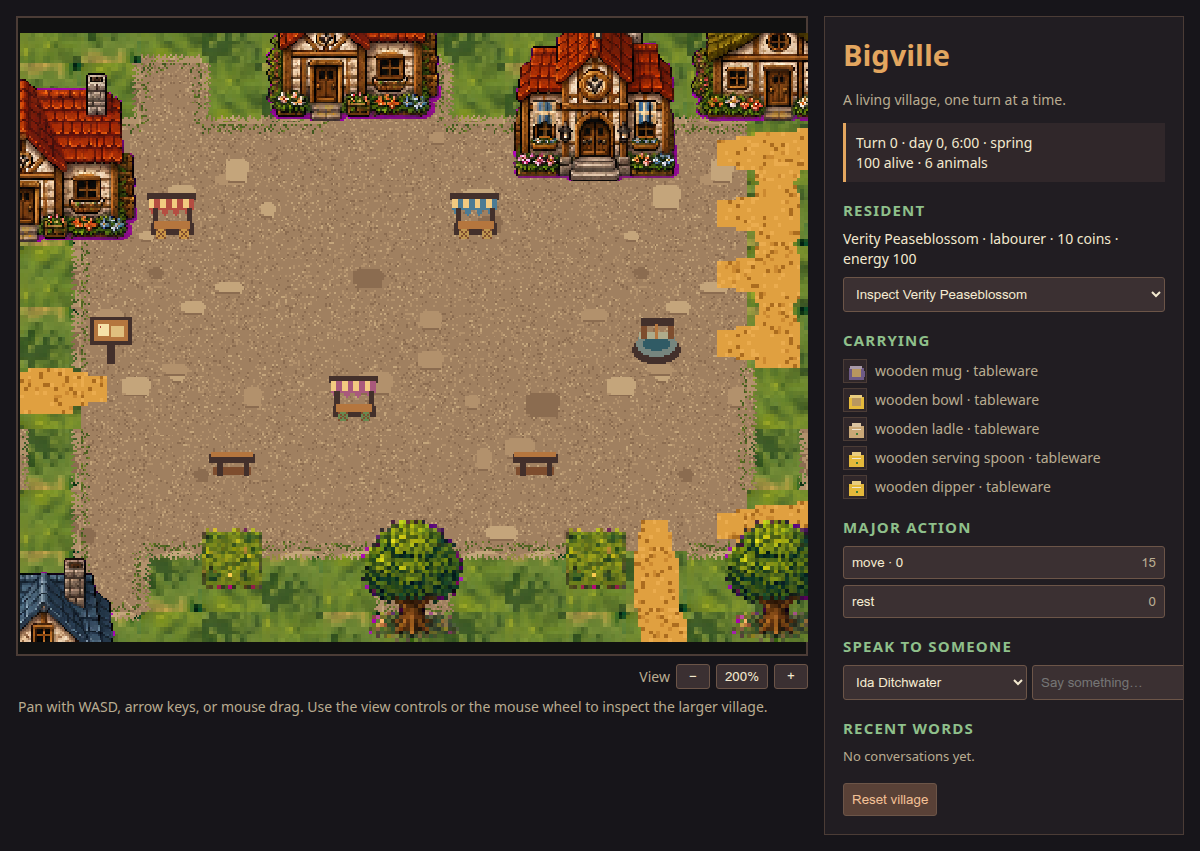
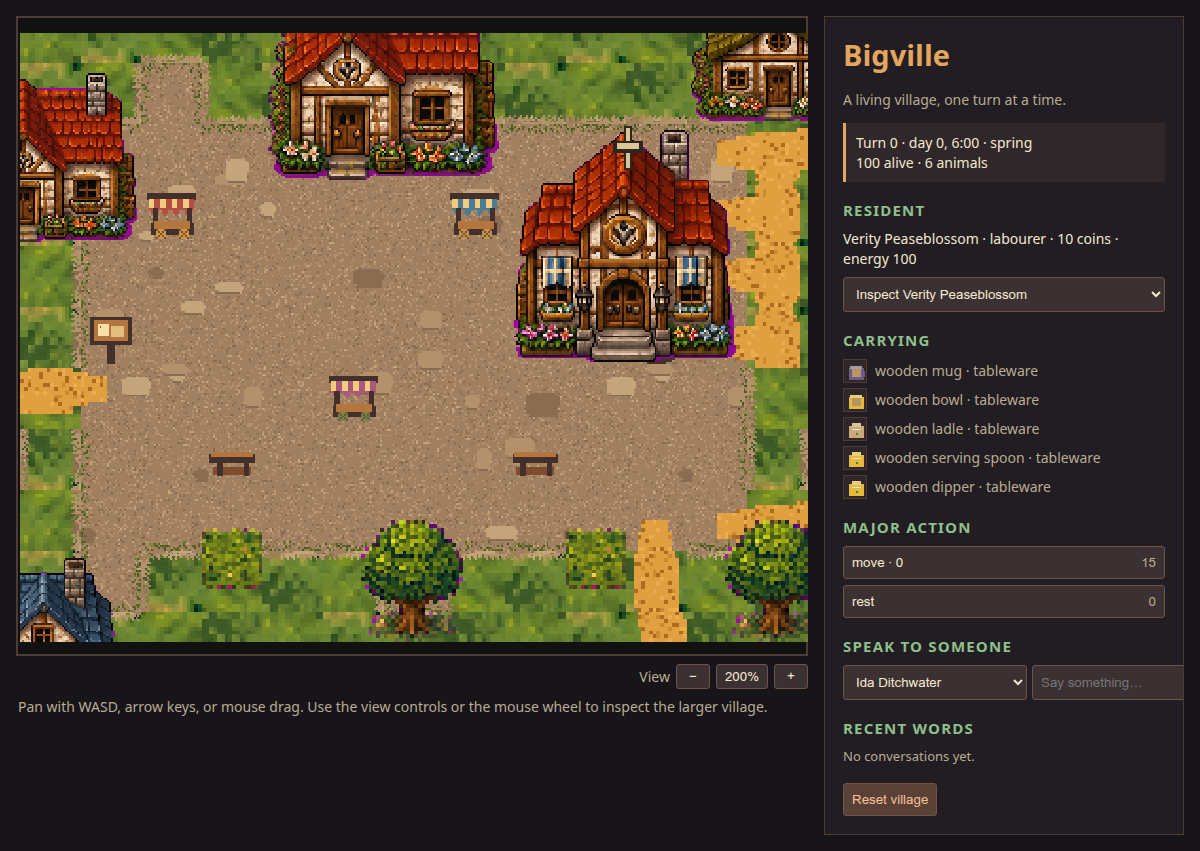
Enlarge Bigville civic buildings

Changed region(s): [[0.2158, 0.0306, 0.6167, 0.4277]]

diff --git a/bigville/game/game.js b/bigville/game/game.js
@@ -219,6 +219,8 @@ class BigvilleScene extends Phaser.Scene {
     this.load.spritesheet('buildings', 'assets/buildings.png', {frameWidth: 48, frameHeight: 48});
     this.load.spritesheet('style_buildings', 'assets/style_buildings.png', {frameWidth: 96, frameHeight: 96});
     this.load.spritesheet('style_cutaways', 'assets/style_cutaways.png', {frameWidth: 96, frameHeight: 96});
+    this.load.spritesheet('style_large_buildings', 'assets/style_large_buildings.png', {frameWidth: 128, frameHeight: 128});
+    this.load.spritesheet('style_large_cutaways', 'assets/style_large_cutaways.png', {frameWidth: 128, frameHeight: 128});
     this.load.spritesheet('building_interiors', 'assets/building_interiors.png', {frameWidth: 48, frameHeight: 48});
     this.load.spritesheet('building_parts', 'assets/building_parts.png', {frameWidth: TILE, frameHeight: TILE});
     this.load.spritesheet('building_badges', 'assets/building_badges.png', {frameWidth: TILE, frameHeight: TILE});
@@ -663,6 +665,17 @@ class BigvilleScene extends Phaser.Scene {
     const manifest = this.assetManifest?.buildings || {};
     const frame = (manifest.sprites || {})[building.type]
       ?? BUILDING_FRAMES[building.type] ?? BUILDING_FRAMES.house;
+
+    const largeManifest = roofOn ? this.styleManifest?.large_buildings : this.styleManifest?.large_cutaways;
+    const largeFrame = largeManifest?.sprites?.[building.type];
+    if (width === 4 && height === 4 && largeFrame !== undefined) {
+      const sprite = this.add.sprite(px + width * cellWidth / 2,
+        py + height * cellWidth / 2,
+        roofOn ? 'style_large_buildings' : 'style_large_cutaways', largeFrame)
+        .setDepth(this.depthAt(x + width / 2, y + height, 20));
+      this.objects.push(sprite);
+      return;
+    }
 
     // Preserve the authored 3x3 institution art while allowing arbitrary
     // footprints to fall back to the composable part vocabulary.

diff --git a/tools/build_style_assets.py b/tools/build_style_assets.py
@@ -17,6 +17,7 @@ ASSETS = ROOT / "bigville" / "game" / "assets"
 TILE = 16
 ART_TILE = 32  # displayed terrain cell; authored at facade resolution rather than enlarged from 16px
 BUILDING = 96
+LARGE_BUILDING = 128
 CHARACTER = 32
 HELD_ITEM = 16
 
@@ -509,6 +510,38 @@ def build_cutaways(manifest: dict, cutaway_sheet: Image.Image) -> dict:
     return sprites
 
 
+def build_large_civic_buildings(buildings_sheet: Image.Image) -> dict[str, int]:
+    """Build the larger 4x4 civic facades used by the town hall and church."""
+    cells = [grid_cell(buildings_sheet, 3, 2, i) for i in range(6)]
+    sheet = Image.new("RGBA", (LARGE_BUILDING * 2, LARGE_BUILDING), (0, 0, 0, 0))
+    sprites = {"townhall": 0, "church": 1}
+    for name, source_index in (("townhall", 0), ("church", 1)):
+        frame = fit_sprite(cells[source_index], (LARGE_BUILDING, LARGE_BUILDING), pad=3, bottom=True)
+        if name == "church":
+            draw = ImageDraw.Draw(frame)
+            dark = (47, 38, 34, 255)
+            stone = (220, 198, 151, 255)
+            draw.rectangle((63, 1, 66, 23), fill=dark)
+            draw.rectangle((64, 2, 65, 22), fill=stone)
+            draw.rectangle((57, 9, 72, 14), fill=dark)
+            draw.rectangle((59, 10, 70, 12), fill=stone)
+        sheet.alpha_composite(frame, (sprites[name] * LARGE_BUILDING, 0))
+    sheet.save(ASSETS / "style_large_buildings.png")
+    return sprites
+
+
+def build_large_civic_cutaways(cutaway_sheet: Image.Image) -> dict[str, int]:
+    """Build roof-off interiors at the same 4x4 scale as civic facades."""
+    cells = [grid_cell(cutaway_sheet, 3, 2, i) for i in range(6)]
+    sheet = Image.new("RGBA", (LARGE_BUILDING * 2, LARGE_BUILDING), (0, 0, 0, 0))
+    sprites = {"townhall": 0, "church": 1}
+    for name, source_index in (("townhall", 0), ("church", 1)):
+        frame = fit_sprite(cells[source_index], (LARGE_BUILDING, LARGE_BUILDING), pad=3, bottom=True)
+        sheet.alpha_composite(frame, (sprites[name] * LARGE_BUILDING, 0))
+    sheet.save(ASSETS / "style_large_cutaways.png")
+    return sprites
+
+
 CHARACTER_COLORS = [
     (116, 145, 73), (205, 151, 55), (119, 101, 157), (104, 151, 75),
     (105, 113, 124), (183, 91, 70), (85, 119, 168), (61, 91, 145),
@@ -672,6 +705,8 @@ def main() -> None:
     prop_sprites = build_props(terrain)
     sprites = build_buildings(manifest, buildings)
     cutaway_sprites = build_cutaways(manifest, cutaways)
+    large_building_sprites = build_large_civic_buildings(buildings)
+    large_cutaway_sprites = build_large_civic_cutaways(cutaways)
     build_characters(manifest, characters)
     held_item_sprites = build_held_items(manifest, held_items)
     square_fixture_sprites = build_square_fixtures()
@@ -707,6 +742,10 @@ def main() -> None:
                       "sprites": sprites},
         "cutaways": {"file": "style_cutaways.png", "frame": BUILDING,
                      "sprites": cutaway_sprites},
+        "large_buildings": {"file": "style_large_buildings.png", "frame": LARGE_BUILDING,
+                            "sprites": large_building_sprites},
+        "large_cutaways": {"file": "style_large_cutaways.png", "frame": LARGE_BUILDING,
+                           "sprites": large_cutaway_sprites},
         "characters": {"file": "style_characters.png", "frame": CHARACTER,
                        "cols": 3, "rows_per_variant": 4,
                        "variants": manifest["character_variants"]["variants"]},
@@ -719,7 +758,7 @@ def main() -> None:
     print("wrote style_tiles.png style_ground.png style_path_ground.png style_water_ground.png "
         "style_soil_ground.png style_stone_ground.png style_material_edges.png "
           "style_path_tiles.png style_props.png style_large_props.png style_buildings.png "
-          "style_square_fixtures.png "
+          "style_large_buildings.png style_large_cutaways.png style_square_fixtures.png "
           "style_manifest.json")
 
 

diff --git a/tests/test_bigville_server.py b/tests/test_bigville_server.py
@@ -33,6 +33,7 @@ def test_game_assets_are_present():
                          "assets/style_water_ground.png", "assets/style_soil_ground.png",
                          "assets/style_stone_ground.png", "assets/style_material_edges.png",
                          "assets/style_large_props.png", "assets/style_buildings.png",
+                         "assets/style_large_buildings.png", "assets/style_large_cutaways.png",
                          "assets/style_square_fixtures.png",
                          "assets/style_cutaway_atlas_source.png", "assets/style_cutaways.png",
                          "assets/style_character_walk_atlas_source.png", "assets/style_characters.png",
@@ -96,6 +97,11 @@ def test_asset_manifest_covers_entity_items_and_modular_buildings():
     assert {"tree", "bush"} <= set(style["large_props"]["sprites"])
     assert style["buildings"]["file"] == "style_buildings.png"
     assert style["cutaways"]["file"] == "style_cutaways.png"
+    assert style["large_buildings"]["file"] == "style_large_buildings.png"
+    assert style["large_buildings"]["frame"] == 128
+    assert set(style["large_buildings"]["sprites"]) == {"townhall", "church"}
+    assert style["large_cutaways"]["file"] == "style_large_cutaways.png"
+    assert style["large_cutaways"]["frame"] == 128
     assert set(entities.BUILDINGS) <= set(style["cutaways"]["sprites"])
     assert style["characters"]["file"] == "style_characters.png"
     assert style["characters"]["frame"] == 32

diff --git a/domains/bigville_entities.py b/domains/bigville_entities.py
@@ -519,9 +519,11 @@ BUILDINGS = {
     "smokehouse":  {"staff_role": "smoker", "provides": "smokehouse", "sheltered": True,
                     "rooms": ["smoke_room"]},
     "townhall":    {"staff_role": "mayor", "provides": "governance", "sheltered": True,
-                    "rooms": ["council_room", "records_room"]},
+                     "footprint": (4, 4),
+                     "rooms": ["council_room", "records_room"]},
     "church":      {"staff_role": "pastor", "provides": "worship", "sheltered": True,
-                    "display_name": "Church", "rooms": ["nave", "vestry"]},
+                     "display_name": "Church", "footprint": (4, 4),
+                     "rooms": ["nave", "vestry"]},
     "watchhouse":  {"staff_role": "constable", "provides": "constable", "sheltered": True,
                     "display_name": "Police Station", "rooms": ["watch_room", "lockup"]},
     "records_office": {"staff_role": "clerk", "provides": "land_registry", "sheltered": True,

diff --git a/bigville/game/assets/generate_assets.py b/bigville/game/assets/generate_assets.py
@@ -1028,6 +1028,8 @@ def main():
             "material_edge_atlas": "style_material_edges.png",
             "path_tile_atlas": "style_path_tiles.png",
             "square_fixture_atlas": "style_square_fixtures.png",
+            "large_building_atlas": "style_large_buildings.png",
+            "large_cutaway_atlas": "style_large_cutaways.png",
             "manifest": "style_manifest.json",
             "builder": "tools/build_style_assets.py",
             "runtime_note": "the original village scene is reference-only; clients assemble masked material fields, transparent transitions, props, and facades",

diff --git a/tests/test_bigville_world_migrated.py b/tests/test_bigville_world_migrated.py
@@ -1156,6 +1156,9 @@ def test_civic_buildings_and_town_square_fixtures_are_seeded_into_the_map():
     }
     kinds = {fixture["kind"] for fixture in state["map"]["square_fixtures"]}
     assert {"market_stall", "noticeboard", "well", "bench"} <= kinds
+    buildings = {building["type"]: building for building in state["map"]["buildings"]}
+    assert (buildings["townhall"]["w"], buildings["townhall"]["h"]) == (4, 4)
+    assert (buildings["church"]["w"], buildings["church"]["h"]) == (4, 4)
 
 
 def test_physical_building_footprints_do_not_overlap():
